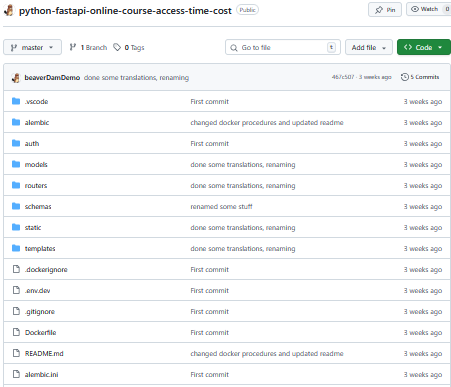
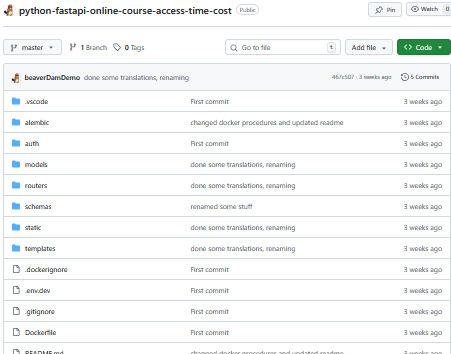
updated some pictures and removed border radius from a wrapper

Changed region(s): [[0.0, 0.0, 1.0, 1.0]]

diff --git a/index.html b/index.html
@@ -202,7 +202,7 @@
           <a href="https://beaverdamdemo.github.io/demo-portal-web">
             <div class="card-content">
               <h4>demo portal</h4>
-              <p>2025</p>
+              <p>2025 (WIP)</p>
               <div class="logo-group">
                 <div class="logo logo-angular"></div>
                 <div class="logo logo-asp-net"></div>
@@ -215,7 +215,7 @@
           <a href="https://thai-english-playland.vercel.app/">
             <div class="card-content">
               <h4>english lessons game</h4>
-              <p>2026</p>
+              <p>2026 (WIP)</p>
               <div class="logo-group">
                 <div class="logo logo-wip"></div>
                 <div class="logo logo-vibe-coding"></div>
@@ -226,7 +226,7 @@
           <a href="https://github.com/beaverDamDemo/zephyr-renode-ble-fake-sensor">
             <div class="card-content">
               <h4>RTOS data to website</h4>
-              <p>2026</p>
+              <p>2026 (WIP)</p>
               <div class="logo-group">
                 <div class="logo logo-wip"></div>
                 <div class="logo logo-vibe-coding"></div>
@@ -297,6 +297,7 @@
                 <div class="logo logo-css3"></div>
                 <div class="logo logo-es6"></div>
                 <div class="logo logo-vue"></div>
+                <div class="logo logo-wip"></div>
               </div>
               <img src="assets/images/vue-acceleration-dist.png" alt="" />
             </div>
@@ -311,7 +312,7 @@
                 <div class="logo logo-es6"></div>
                 <div class="logo logo-svg"></div>
               </div>
-              <img src="assets/images/magnifier-ani.png" alt="" />
+              <img src="assets/images/magnifier-ani.jpg" alt="" />
             </div>
           </a>
           <a href="https://beaverdamdemo.github.io/wheelbarrows">
@@ -324,7 +325,7 @@
                 <div class="logo logo-es6"></div>
                 <div class="logo logo-svg"></div>
               </div>
-              <img src="assets/images/wheelbarrows.png" alt="" />
+              <img src="assets/images/wheelbarrows.jpg" alt="" />
             </div>
           </a>
           <a href="https://beaverdamdemo.github.io/multiple-audio-files">

diff --git a/assets/css/styles.css b/assets/css/styles.css
@@ -289,6 +289,5 @@ main #linkedin {
   width: auto;
   margin: 0 auto;
   padding: 20px 20px;
-  border-radius: 10px;
   overflow: visible;
 }